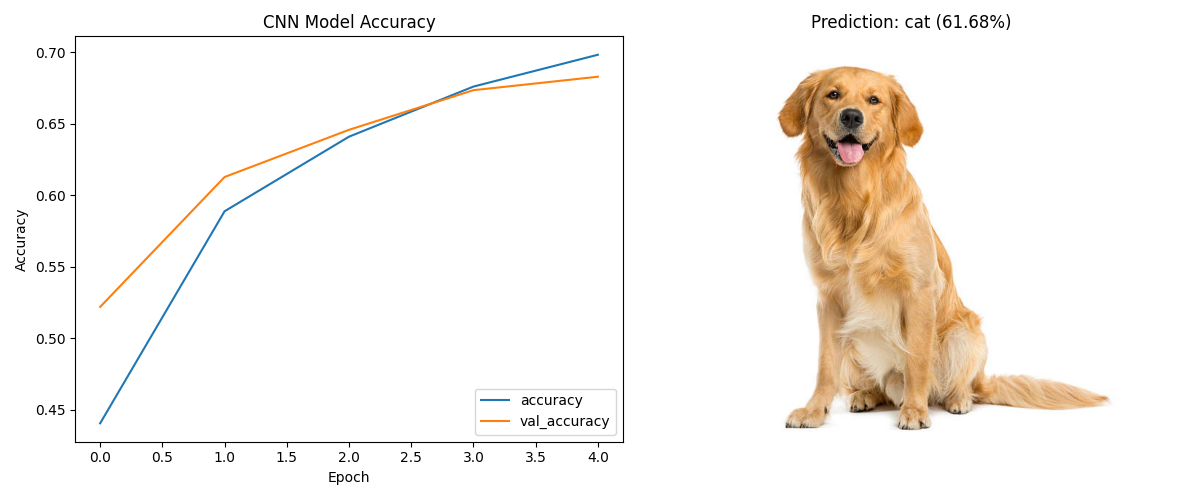
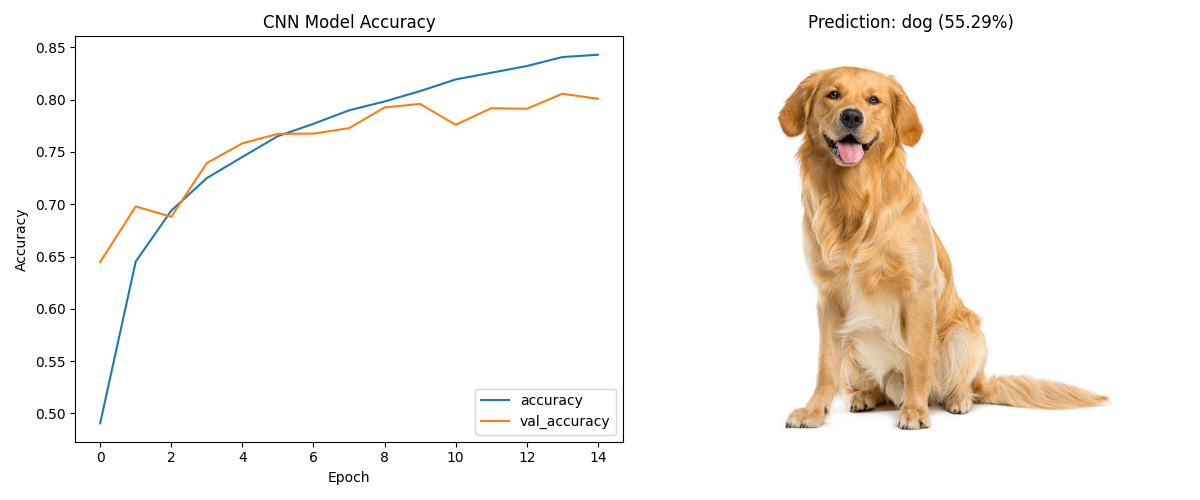
Enhance CNN accuracy with deeper layers, BatchNormalization, Dropout, and 15 epochs in Assignment 2

diff --git a/0402/0402-2.py b/0402/0402-2.py
@@ -20,15 +20,26 @@ x_train, x_test = x_train / 255.0, x_test / 255.0
 class_names = ['airplane', 'automobile', 'bird', 'cat', 'deer',
                'dog', 'frog', 'horse', 'ship', 'truck']
 
-# 2. CNN 모델 구축
+# 2. CNN 모델 구축 (개선된 모델)
 model = models.Sequential([
-    layers.Conv2D(32, (3, 3), activation='relu', input_shape=(32, 32, 3)),
+    layers.Conv2D(32, (3, 3), padding='same', activation='relu', input_shape=(32, 32, 3)),
+    layers.BatchNormalization(),
+    layers.Conv2D(32, (3, 3), padding='same', activation='relu'),
+    layers.BatchNormalization(),
     layers.MaxPooling2D((2, 2)),
-    layers.Conv2D(64, (3, 3), activation='relu'),
+    layers.Dropout(0.25),
+
+    layers.Conv2D(64, (3, 3), padding='same', activation='relu'),
+    layers.BatchNormalization(),
+    layers.Conv2D(64, (3, 3), padding='same', activation='relu'),
+    layers.BatchNormalization(),
     layers.MaxPooling2D((2, 2)),
-    layers.Conv2D(64, (3, 3), activation='relu'),
+    layers.Dropout(0.25),
+
     layers.Flatten(),
-    layers.Dense(64, activation='relu'),
+    layers.Dense(128, activation='relu'),
+    layers.BatchNormalization(),
+    layers.Dropout(0.5),
     layers.Dense(10, activation='softmax')
 ])
 
@@ -39,7 +50,7 @@ model.compile(optimizer='adam',
 
 # 3. 모델 훈련
 print("---- CNN 모델 훈련 시작 ----")
-history = model.fit(x_train, y_train, epochs=5, validation_data=(x_test, y_test))
+history = model.fit(x_train, y_train, epochs=15, batch_size=64, validation_data=(x_test, y_test))
 print("---- CNN 모델 훈련 완료 ----")
 
 # 4. 모델 평가 및 dog.jpg 테스트 예측 진행

diff --git a/0402/README.md b/0402/README.md
@@ -123,15 +123,26 @@ x_train, x_test = x_train / 255.0, x_test / 255.0
 class_names = ['airplane', 'automobile', 'bird', 'cat', 'deer',
                'dog', 'frog', 'horse', 'ship', 'truck']
 
-# 2. CNN 모델 구축
+# 2. CNN 모델 구축 (개선된 모델)
 model = models.Sequential([
-    layers.Conv2D(32, (3, 3), activation='relu', input_shape=(32, 32, 3)),
+    layers.Conv2D(32, (3, 3), padding='same', activation='relu', input_shape=(32, 32, 3)),
+    layers.BatchNormalization(),
+    layers.Conv2D(32, (3, 3), padding='same', activation='relu'),
+    layers.BatchNormalization(),
     layers.MaxPooling2D((2, 2)),
-    layers.Conv2D(64, (3, 3), activation='relu'),
+    layers.Dropout(0.25),
+
+    layers.Conv2D(64, (3, 3), padding='same', activation='relu'),
+    layers.BatchNormalization(),
+    layers.Conv2D(64, (3, 3), padding='same', activation='relu'),
+    layers.BatchNormalization(),
     layers.MaxPooling2D((2, 2)),
-    layers.Conv2D(64, (3, 3), activation='relu'),
+    layers.Dropout(0.25),
+
     layers.Flatten(),
-    layers.Dense(64, activation='relu'),
+    layers.Dense(128, activation='relu'),
+    layers.BatchNormalization(),
+    layers.Dropout(0.5),
     layers.Dense(10, activation='softmax')
 ])
 
@@ -142,7 +153,7 @@ model.compile(optimizer='adam',
 
 # 3. 모델 훈련
 print("---- CNN 모델 훈련 시작 ----")
-history = model.fit(x_train, y_train, epochs=5, validation_data=(x_test, y_test))
+history = model.fit(x_train, y_train, epochs=15, batch_size=64, validation_data=(x_test, y_test))
 print("---- CNN 모델 훈련 완료 ----")
 
 # 4. 모델 평가 및 dog.jpg 예측 (Prediction)
@@ -184,15 +195,18 @@ plt.savefig(os.path.join(base_dir, '0402-2.png'))
 *   **합성곱 신경망(CNN) 층 구성:**
     ```python
     model = models.Sequential([
-        layers.Conv2D(32, (3, 3), activation='relu', input_shape=(32, 32, 3)),
-        layers.MaxPooling2D((2, 2)),
+        layers.Conv2D(32, (3, 3), padding='same', activation='relu', input_shape=(32, 32, 3)),
+        layers.BatchNormalization(),
         ...
+        layers.Dropout(0.25),
         layers.Flatten(),
-        layers.Dense(64, activation='relu'),
+        layers.Dense(128, activation='relu'),
+        layers.BatchNormalization(),
+        layers.Dropout(0.5),
         layers.Dense(10, activation='softmax')
     ])
     ```
-    > 이미지 인식에 탁월한 `Conv2D` 계층으로 특징 맵(Feature Map)을 추출하고, `MaxPooling2D`로 중요 정보는 유지하면서 공간의 크기를 줄입니다. 최종적으로 이를 1차원 데이터로 평탄화(`Flatten`)시킨 후에 `Dense` 레이어들을 통해 가장 가능성이 높은 클래스의 확률을 추론하도록 모델을 정의했습니다.
+    > 개선된 모델에서는 각 합성곱(`Conv2D`) 층에 `padding='same'`을 추가하여 공간 차원을 유지하고, 레이어 출력 정규화를 위해 `BatchNormalization`을 추가하여 안정적이고 빠른 학습을 돕습니다. 또한 각 블록 이후에 `Dropout`을 배치하여 과적합(Overfitting)을 최소화하였습니다. 최종적으로 평탄화(`Flatten`) 후 `Dense` 레이어를 통과하여 추출된 특징들로 각 클래스 확률을 추론합니다.
 *   **테스트 이미지 예측 처리:**
     ```python
     test_img_resized = cv2.resize(test_img_rgb, (32, 32))
